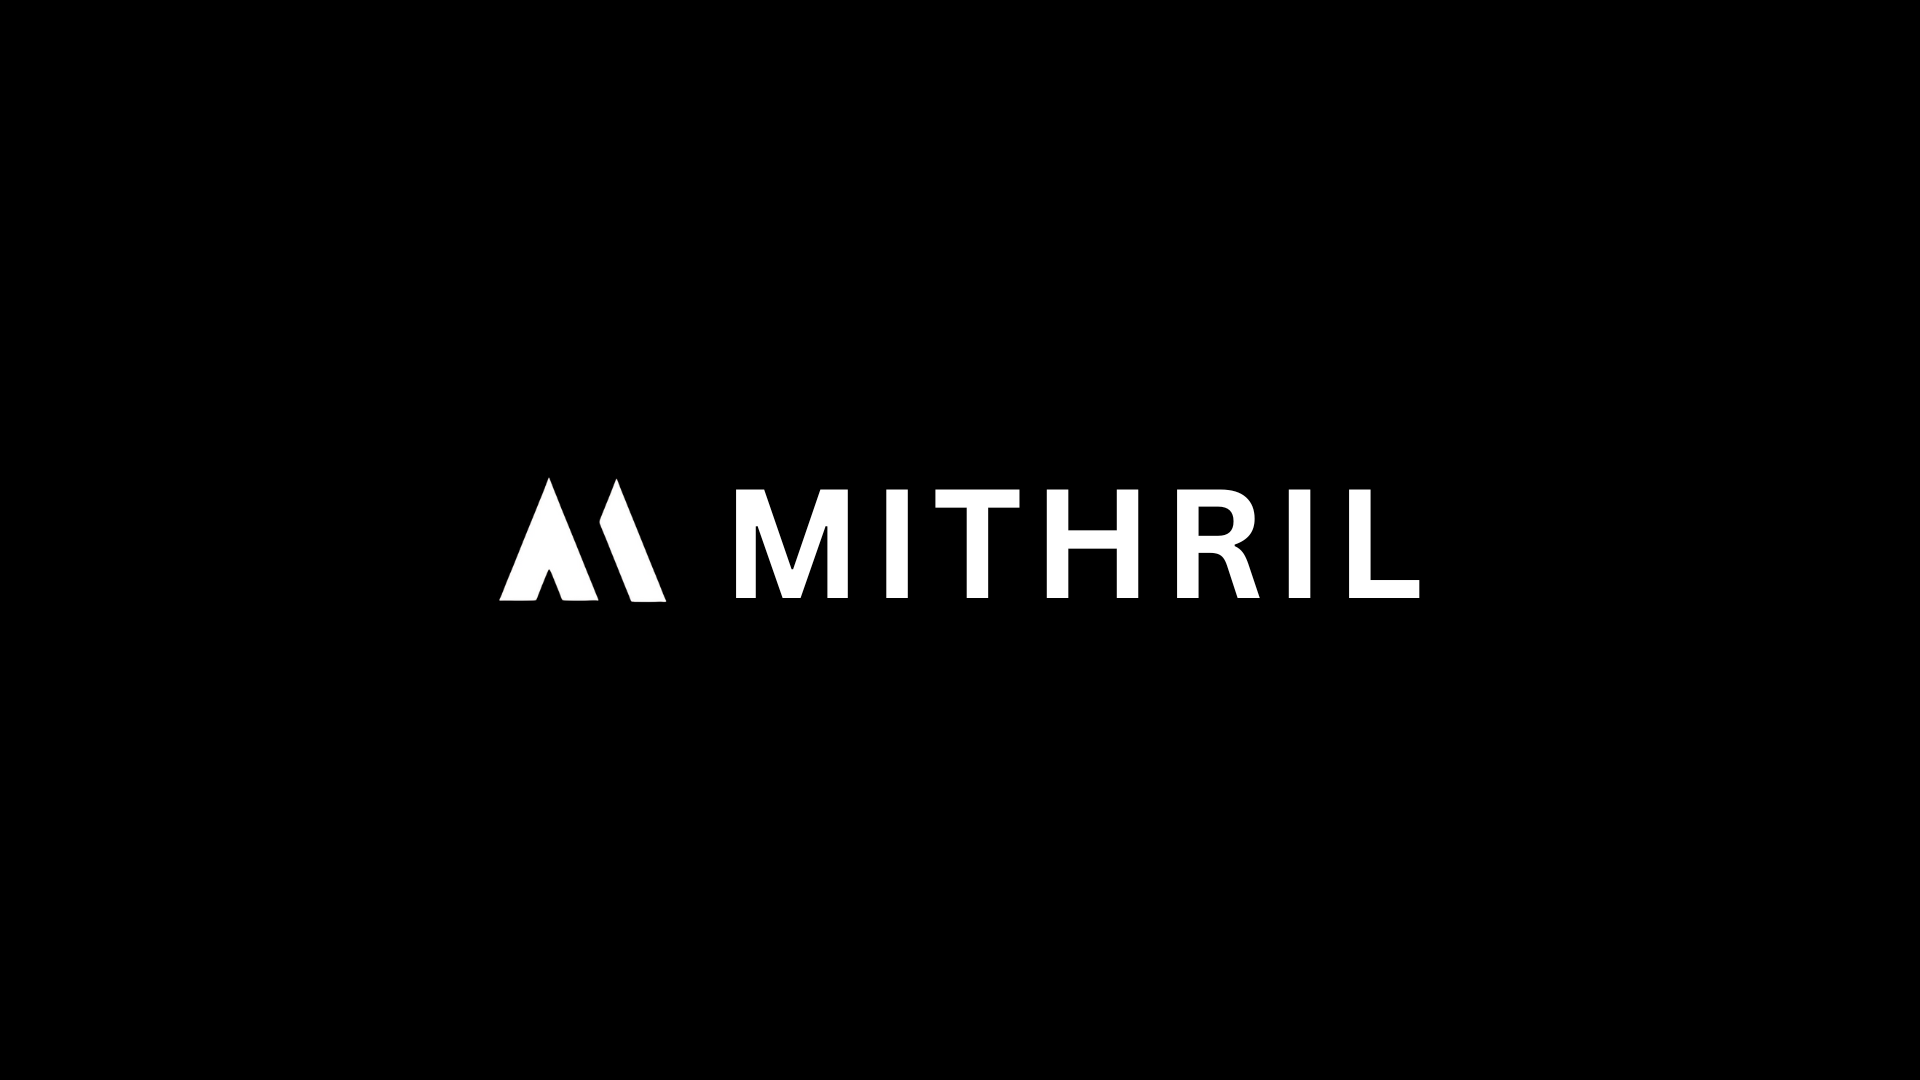
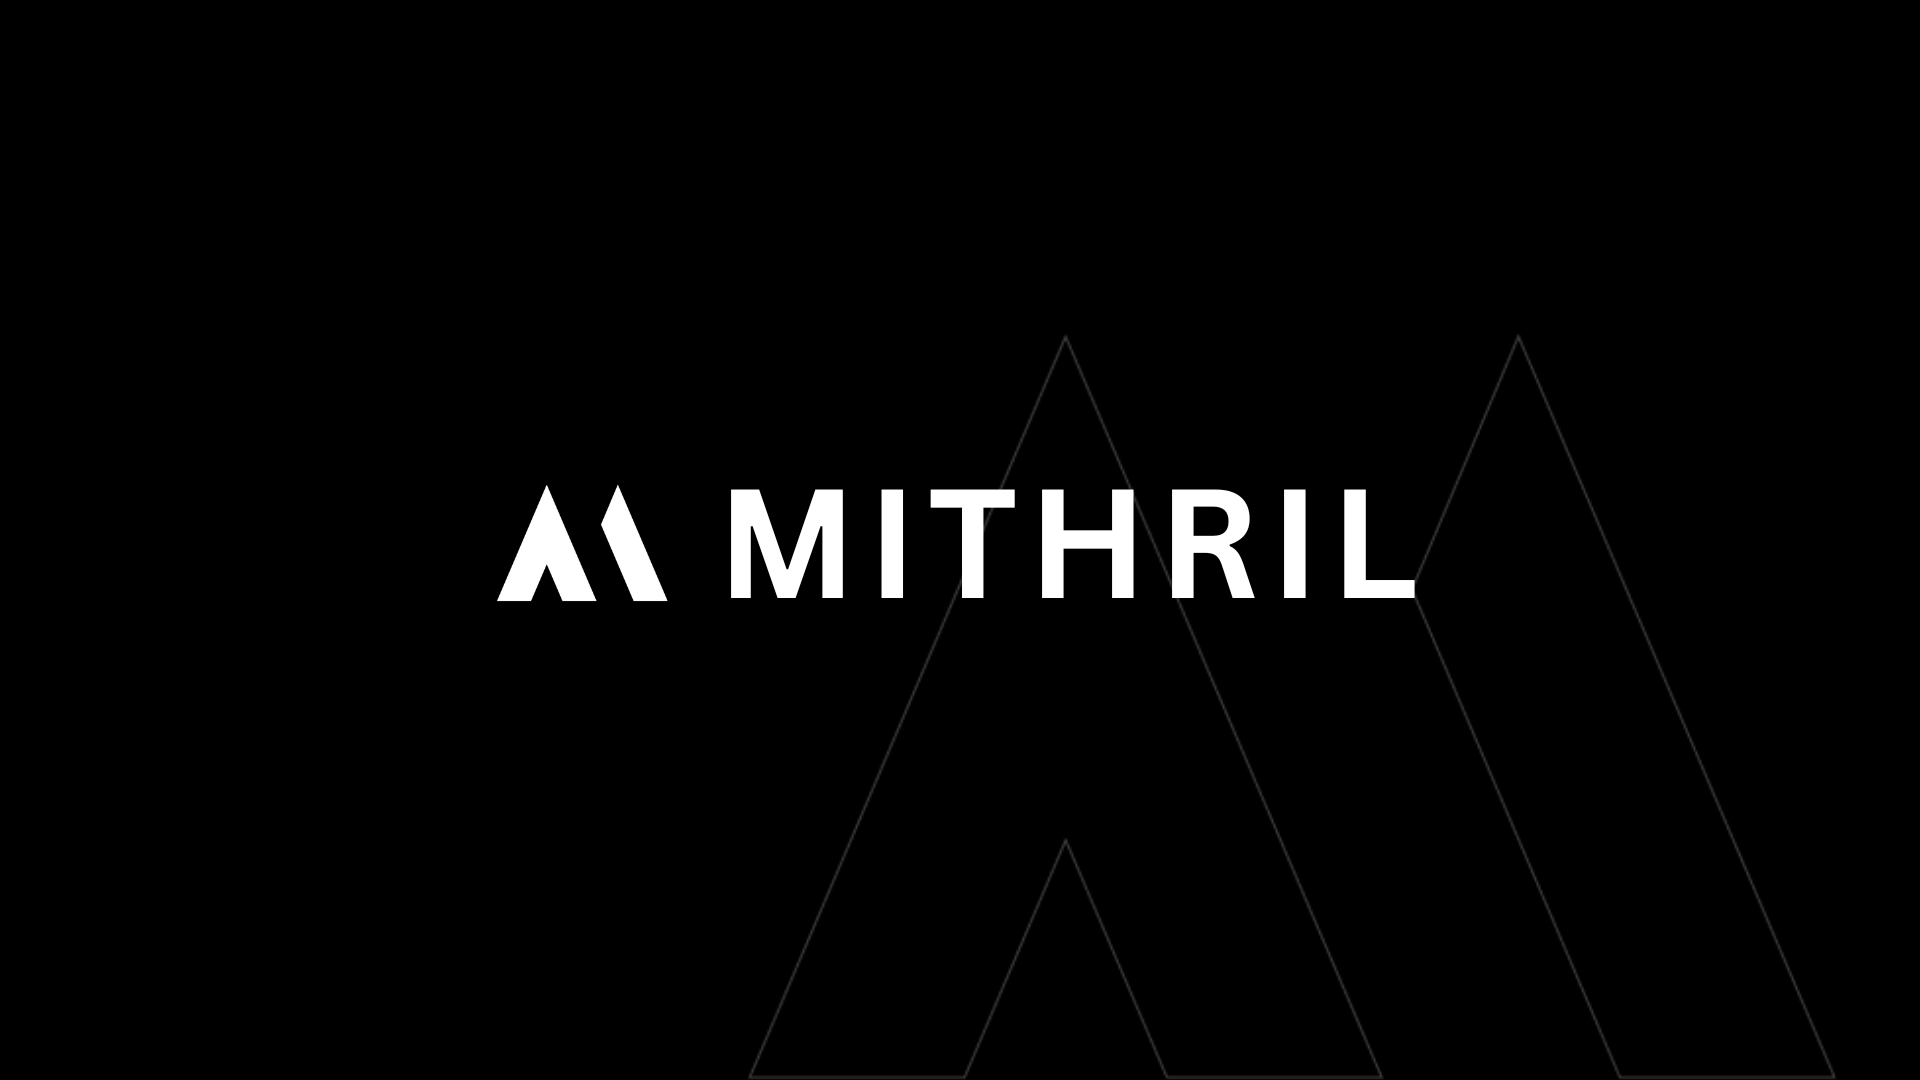
Update site

diff --git a/components/nav.tsx b/components/nav.tsx
@@ -22,8 +22,8 @@ export function Navbar() {
             src={Logo}
             alt="Mithril AI Logo"
             className="pb-[2px]"
-            width={36}
-            height={36}
+            width={33}
+            height={33}
             priority
           />
           <h1 className="text-3xl font-medium ml-2 tracking-widest">MITHRIL</h1>
@@ -34,16 +34,16 @@ export function Navbar() {
           <a href="/research" className="hover:text-gray-300">
             RESEARCH
           </a>
-          <span className="text-[#676767]">/</span>
+          <span className="text-[#505050]">/</span>
           <a href="/blog" className="hover:text-gray-300">
             BLOG
           </a>
-          <span className="text-[#676767]">/</span>
+          <span className="text-[#505050]">/</span>
           <a href="/about" className="hover:text-gray-300">
             ABOUT
           </a>
         </div>
-        <span className="text-[#676767] hidden md:inline">/</span>
+        <span className="text-[#505050] hidden md:inline">/</span>
         <Sheet>
           <SheetTrigger asChild>
             <Button
@@ -57,7 +57,7 @@ export function Navbar() {
           </SheetTrigger>
           <SheetContent className="border-l border-[#222222] bg-black w-[250px] sm:w-[300px]">
             <SheetHeader>
-              <SheetTitle className="pl-1">
+              <SheetTitle className="pl-1 pt-2">
                 <Image
                   src={Logo}
                   alt="Mithril AI Logo"
@@ -73,21 +73,21 @@ export function Navbar() {
                   href="/research"
                   className="text-sm hover:text-gray-300 flex gap-2"
                 >
-                  <span className="text-[#676767]">/</span>
+                  <span className="text-[#505050]">/</span>
                   <h2>RESEARCH</h2>
                 </a>
                 <a
                   href="/blog"
                   className="text-sm hover:text-gray-300 flex gap-2"
                 >
-                  <span className="text-[#676767]">/</span>
+                  <span className="text-[#505050]">/</span>
                   <h2>BLOG</h2>
                 </a>
                 <a
                   href="/about"
                   className="text-sm hover:text-gray-300 flex gap-2"
                 >
-                  <span className="text-[#676767]">/</span>
+                  <span className="text-[#505050]">/</span>
                   <h2>ABOUT</h2>
                 </a>
               </div>
@@ -98,7 +98,7 @@ export function Navbar() {
                   rel="noopener noreferrer"
                   className="text-sm hover:text-gray-300 flex gap-2"
                 >
-                  <span className="text-[#676767]">\</span>
+                  <span className="text-[#505050]">\</span>
                   <h2>HUGGING FACE</h2>
                 </a>
                 <a
@@ -107,7 +107,7 @@ export function Navbar() {
                   rel="noopener noreferrer"
                   className="text-sm hover:text-gray-300 flex gap-2"
                 >
-                  <span className="text-[#676767]">\</span>
+                  <span className="text-[#505050]">\</span>
                   <h2>TWITTER</h2>
                 </a>
                 <a
@@ -116,7 +116,7 @@ export function Navbar() {
                   rel="noopener noreferrer"
                   className="text-sm hover:text-gray-300 flex gap-2"
                 >
-                  <span className="text-[#676767]">\</span>
+                  <span className="text-[#505050]">\</span>
                   <h2>GITHUB</h2>
                 </a>
                 <a
@@ -125,7 +125,7 @@ export function Navbar() {
                   rel="noopener noreferrer"
                   className="text-sm hover:text-gray-300 flex gap-2"
                 >
-                  <span className="text-[#676767]">\</span>
+                  <span className="text-[#505050]">\</span>
                   <h2>DISCORD</h2>
                 </a>
                 <a
@@ -134,7 +134,7 @@ export function Navbar() {
                   rel="noopener noreferrer"
                   className="text-sm hover:text-gray-300 flex gap-2"
                 >
-                  <span className="text-[#676767]">\</span>
+                  <span className="text-[#505050]">\</span>
                   <h2>LINKEDIN</h2>
                 </a>
                 <a
@@ -143,12 +143,12 @@ export function Navbar() {
                   rel="noopener noreferrer"
                   className="text-sm hover:text-gray-300 flex gap-2"
                 >
-                  <span className="text-[#676767]">\</span>
+                  <span className="text-[#505050]">\</span>
                   <h2>INSTAGRAM</h2>
                 </a>
               </div>
               <div className="text-sm flex flex-col space-y-4">
-                <a href="#" target="_blank" rel="noopener noreferrer">
+                <a href="https://discord.gg/jgy376Jyka" target="_blank" rel="noopener noreferrer">
                   <button className="bg-white text-black px-6 py-2 text-sm rounded-full hover:bg-gray-200 transition-colors">
                     JOIN US
                   </button>

diff --git a/components/footer.tsx b/components/footer.tsx
@@ -1,10 +1,12 @@
 import React from "react";
 
+const YEAR = new Date().getFullYear();
+
 export function Footer() {
   return (
     <section className="flex flex-col justify-center items-center md:flex-row md:justify-between">
       <div className="text-sm font-normal text-[#AFAFAF] mb-6 md:mb-0">
-        <p>© 2024 Mithril AI, Inc.</p>
+        <p>© {YEAR} Mithril AI, Inc.</p>
       </div>
       <div className="flex flex-wrap space-x-4 text-[10px] md:text-xs font-normal tracking-wider">
         <a
@@ -15,7 +17,7 @@ export function Footer() {
         >
           X
         </a>
-        <span className="text-[#676767]">/</span>
+        <span className="text-[#505050]">/</span>
         <a
           href="https://github.com/mithrilai"
           target="_blank"
@@ -24,7 +26,7 @@ export function Footer() {
         >
           GITHUB
         </a>
-        <span className="text-[#676767]">/</span>
+        <span className="text-[#505050]">/</span>
         <a
           href="https://discord.gg/jgy376Jyka"
           target="_blank"
@@ -33,7 +35,7 @@ export function Footer() {
         >
           DISCORD
         </a>
-        <span className="text-[#676767]">/</span>
+        <span className="text-[#505050]">/</span>
         <a
           href="mailto:info.mithrilai@gmail.com"
           target="_blank"

diff --git a/app/layout.tsx b/app/layout.tsx
@@ -4,7 +4,6 @@ import { GeistMono } from "geist/font/mono";
 import "./globals.css";
 import { Navbar } from "@/components/nav";
 import { Footer } from "@/components/footer";
-import GameOfLife from "@/components/GameOfLife";
 
 export const metadata: Metadata = {
   metadataBase: new URL("https://mithrilai.xyz"),
@@ -52,8 +51,19 @@ export default function RootLayout({
       <body className="relative">
         <div className="px-8 py-4 md:px-16 md:py-10">
           <Navbar />
-          <div className="absolute inset-0 -z-10">
-            <GameOfLife  />
+          <div className="absolute right-0 bottom-0 -z-10">
+            <svg
+              width="800"
+              height="550"
+              viewBox="0 0 902 703"
+              fill="none"
+              xmlns="http://www.w3.org/2000/svg"
+            >
+              <path
+                d="M255.687 497.711L179.181 702H1L263.098 2.12392L525.372 702H347.211L270.654 497.709L263.169 477.731L255.687 497.711ZM550.422 240.857L638.674 2L901 702H722.93L550.422 240.857Z"
+                stroke="#2B2B2B"
+              />
+            </svg>
           </div>
           {children}
           <Footer />

diff --git a/app/research/page.tsx b/app/research/page.tsx
@@ -7,9 +7,13 @@ export const metadata: Metadata = {
 
 export default function About() {
   return (
-    <div className="flex flex-col items-center justify-center h-[82vh] text-center px-4">
+    <div className="flex flex-col items-center justify-center h-[83vh] text-center px-4">
       <h1 className="text-4xl md:text-5xl mb-8">Research</h1>
-      <p className="text-lg mb-8 w-full max-w-[710px] font-[family-name:var(--font-geist-mono)]"></p>
+      <p className="text-lg mb-8 w-full max-w-[700px]">
+        We are an open-source AI research and deployment company. Our mission is
+        to democratize AI by becoming the Linux of AI, making everything—from
+        model weights to data pipelines—fully open and accessible to everyone.
+      </p>
       <div className="flex gap-4 items-center">
         <a href="https://github.com/mithrilai">
           <button className="bg-white text-black px-6 py-2 rounded-full text-base font-medium hover:bg-gray-200 transition-colors">

diff --git a/app/about/page.tsx b/app/about/page.tsx
@@ -7,11 +7,11 @@ export const metadata: Metadata = {
 
 export default function About() {
   return (
-    <div className="flex flex-col items-center justify-center h-[82vh] text-center px-4">
+    <div className="flex flex-col items-center justify-center h-[83vh] text-center px-4">
       <h1 className="text-4xl md:text-5xl mb-8">About</h1>
-      <p className="text-lg mb-8 w-full max-w-[710px] jet-brains">
+      <p className="text-lg mb-8 w-full max-w-[700px]">
         We are an open-source AI research and deployment company. Our mission is
-        to democratize AI by becoming the Linux of AI, making everything—from
+        to democratize AI by becoming the 'Linux of AI', making everything—from
         model weights to data pipelines—fully open and accessible to everyone.
       </p>
       <div className="flex gap-4 items-center">

diff --git a/app/not-found.tsx b/app/not-found.tsx
@@ -2,7 +2,7 @@ import React from "react";
 
 export default function NotFound() {
   return (
-    <div className="flex flex-col items-center justify-center h-[82vh] text-center px-4">
+    <div className="flex flex-col items-center justify-center h-[83vh] text-center px-4">
       <h1 className="text-5xl mb-8">404</h1>
       <p className="text-base mb-8 max-w-md leading-[26px]">
         The page you were looking for doesn&apos;t exist. You may have mistyped the
